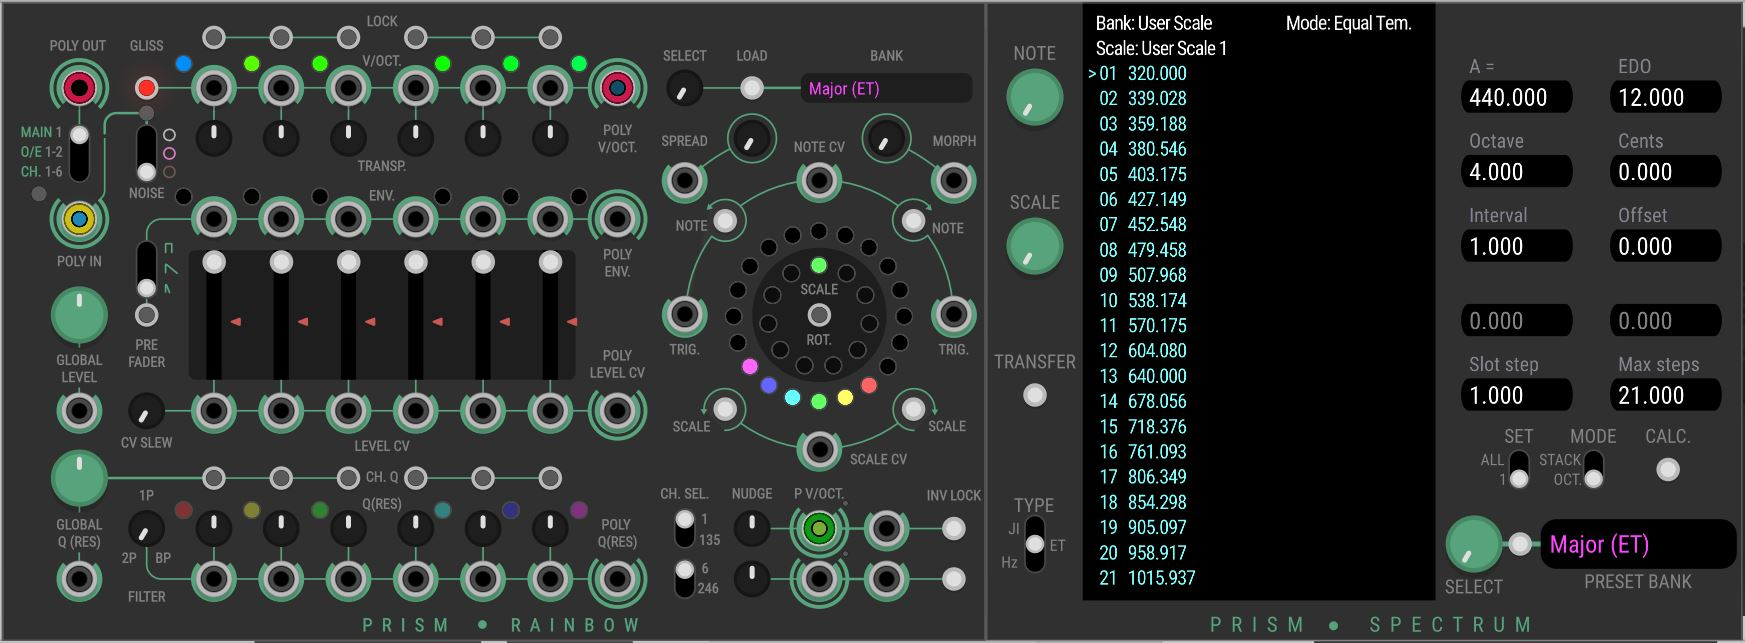
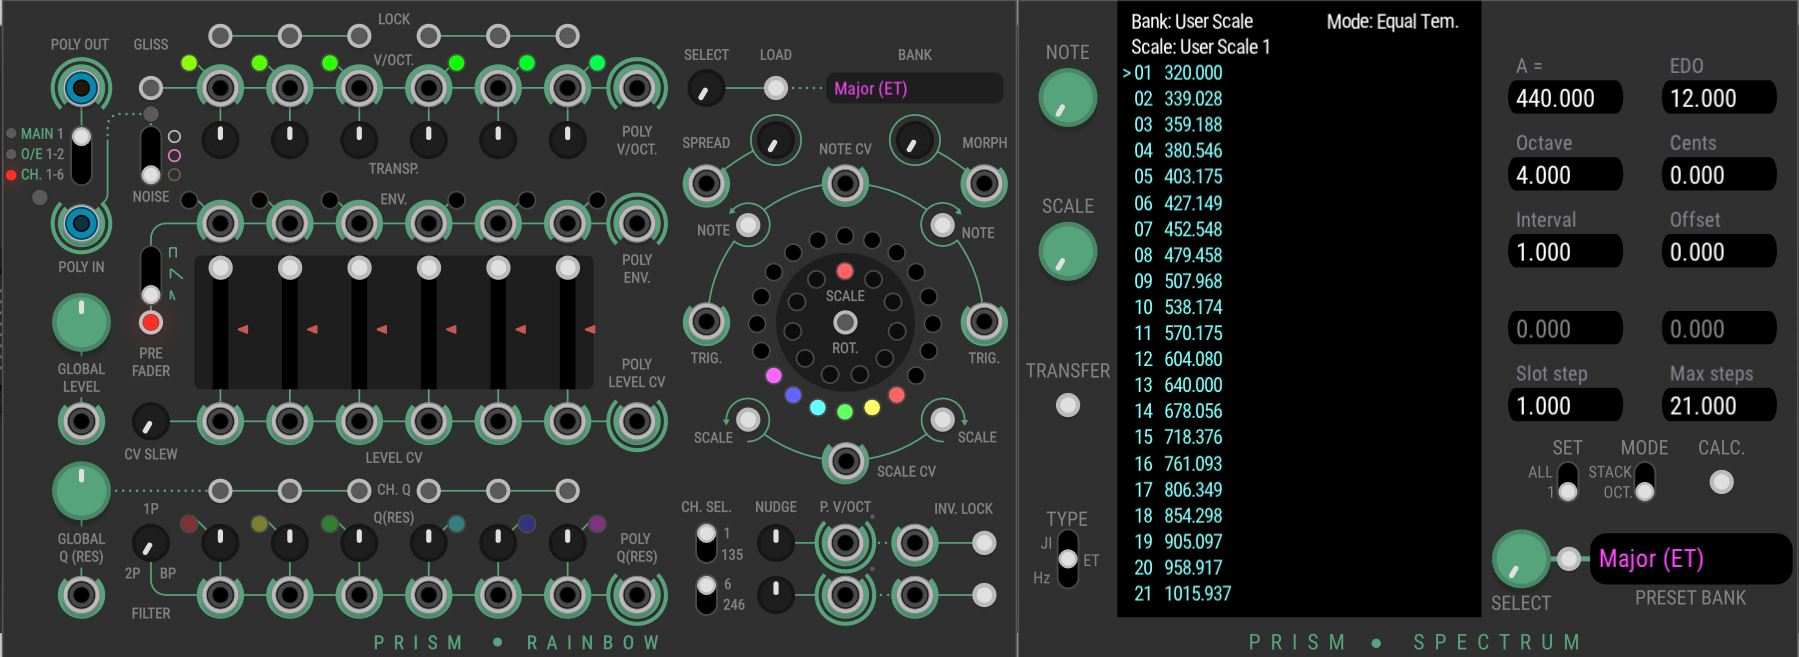
Update text files and images

diff --git a/README.md b/README.md
@@ -5,7 +5,7 @@ Prism is a plugin for the VCV virtual Eurorack environment.
 * Rainbow a port of the 4ms SMR module to the VCV system.
 * Spcetrum, an expander module for Rainbow. It creates User Scales for Rainbow.
 
-The latest release is 1.1.0. It is available through the [Plugin Manager](https://vcvrack.com/plugins.html). You can contact us at amalgamatedharmonics@outlook.com. 
+The latest release is 1.1.1. It is available through the [Plugin Manager](https://vcvrack.com/plugins.html). You can contact us at amalgamatedharmonics@outlook.com. 
 
 The manual for Rainbow and Spectrum can be found here: [Manual](https://github.com/AmalgamatedHarmonics/Prism/blob/master/doc/PrismUM.pdf)
 

diff --git a/CHANGELOG.md b/CHANGELOG.md
@@ -2,6 +2,11 @@
 
 ## Rainbow
 
+1.1.1
+* Performance improvements
+* Add lights to show input mode for Poly In
+* Tweaks to UI 
+
 1.1.0
 * Complete UI overhaul by Pyer
 * Polyphonic audio input and output, with 1,2 and 6 channels in and out
